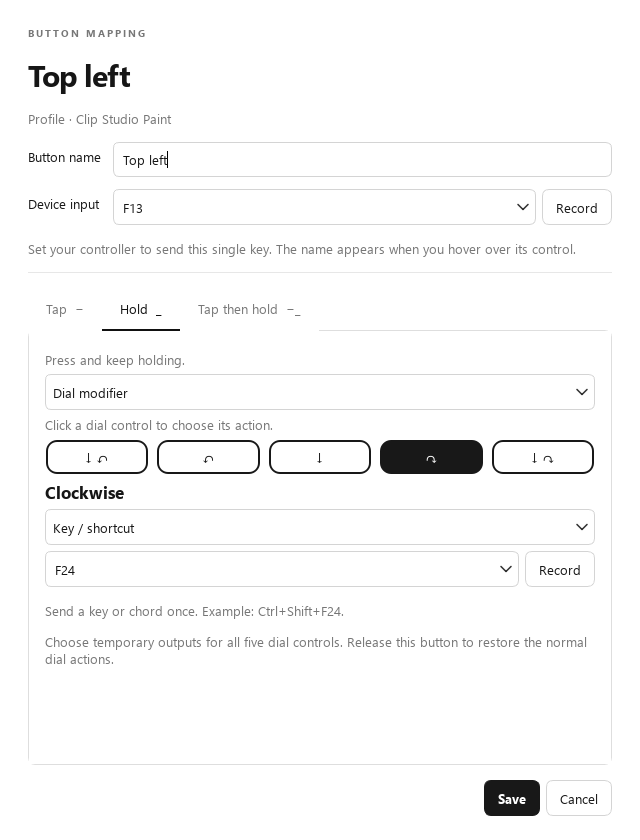
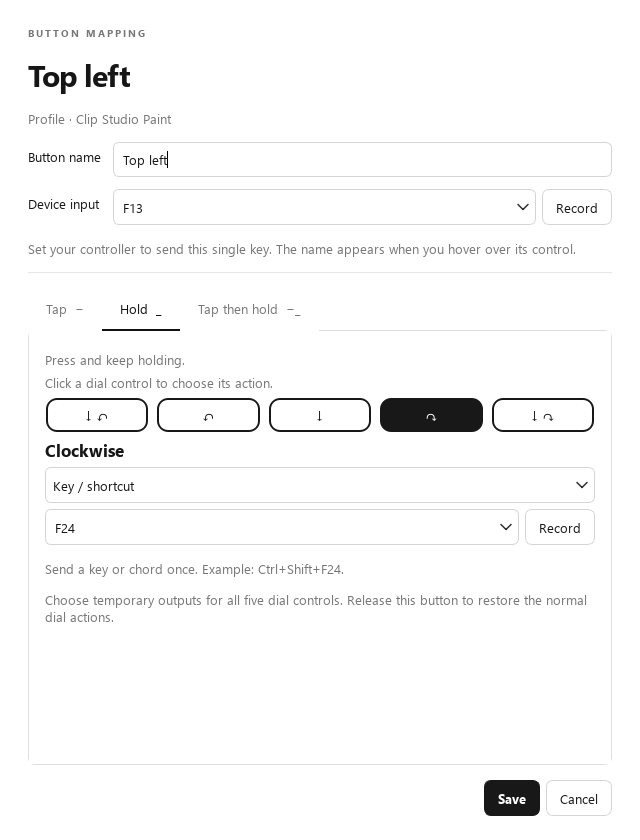
Show held dial options beneath normal actions and add Claude handover

Changed region(s): [[0.0625, 0.4333, 0.9375, 0.8048], [0.8438, 0.619, 0.9062, 0.681], [0.7812, 0.619, 0.8125, 0.681]]

diff --git a/altclipctrl/ui.py b/altclipctrl/ui.py
@@ -162,8 +162,13 @@ class KeyEditor(QWidget):
 
 
 class ActionEditor(QWidget):
-    def __init__(self, output, profiles, allow_hold, default_dial=None, active_profile=None, choices=None):
+    def __init__(self, output, profiles, allow_hold, default_dial=None, active_profile=None, choices=None, separate_dial=False):
         super().__init__()
+        self.separate_dial = separate_dial
+        if separate_dial and output["kind"] != "hold_dial":
+            output = {"kind": "hold_dial", "value": {
+                "without_dial": copy.deepcopy(output) if output["kind"] not in DIAL_MODES else {"kind": "none", "value": ""},
+                "with_dial": copy.deepcopy(output) if output["kind"] in DIAL_MODES else {"kind": "none", "value": ""}}}
         self.profiles = profiles
         self.cycle_profile = active_profile or profiles[0]
         self.initial_output = copy.deepcopy(output)
@@ -210,6 +215,8 @@ class ActionEditor(QWidget):
         self.kind.setCurrentIndex(max(0, self.kind.findData(output["kind"])))
         self.kind.currentIndexChanged.connect(self.refresh)
         self.refresh()
+        if separate_dial:
+            self.kind.hide()
         if choices is not None:
             self.hint.hide()
 
@@ -224,8 +231,8 @@ class ActionEditor(QWidget):
             value = self.initial_output["value"] if self.initial_output["kind"] == "hold_dial" else {
                 "without_dial": {"kind": "hold_key", "value": "Space"}, "with_dial": {"kind": "dial_scroll", "value": {"reverse": False}}}
             self.split = {}
-            for part, title, choices in (("without_dial", "Without turning", ("none", "hold_key")),
-                                         ("with_dial", "When turning", ("none", "dial_scroll", "dial_cycle", "dial_modifier"))):
+            for part, title, choices in (("without_dial", "Without turning", ("none", "hold_key", "profile") if self.separate_dial else ("none", "hold_key")),
+                                         ("with_dial", "With dial", ("none", "dial_scroll", "dial_cycle", "dial_modifier"))):
                 self.split_layout.addWidget(label(title, "section"))
                 editor = ActionEditor(value[part], self.profiles, True, self.default_dial, self.cycle_profile, choices)
                 self.split[part] = editor
@@ -247,7 +254,15 @@ class ActionEditor(QWidget):
     def read(self):
         kind = self.kind.currentData()
         if kind == "hold_dial":
-            return {"kind": kind, "value": {part: editor.read() for part, editor in self.split.items()}}
+            value = {part: editor.read() for part, editor in self.split.items()}
+            if self.separate_dial:
+                if value["with_dial"]["kind"] == "none":
+                    return value["without_dial"]
+                if value["without_dial"]["kind"] == "none":
+                    return value["with_dial"]
+                if value["without_dial"]["kind"] == "profile":
+                    raise ValueError("Switch profile ends this hold. Choose No action under With dial, or choose Hold a key above.")
+            return {"kind": kind, "value": value}
         if kind in ("cycle_next", "cycle_previous", "dial_cycle"):
             value = {"cycle_id": self.cycle.currentData()}
             if kind == "dial_cycle":
@@ -360,7 +375,8 @@ class BindingDialog(QDialog):
                 help_text = {"tap": "Press and release once.", "hold": "Press and keep holding.",
                              "tap_hold": "Tap, release, then press and keep holding."}[gesture]
                 page_layout.addWidget(label(help_text, "muted"))
-                self.editors[gesture] = ActionEditor(binding[gesture], settings["profiles"], gesture != "tap", dial_map(self.profile), self.profile)
+                self.editors[gesture] = ActionEditor(binding[gesture], settings["profiles"], gesture != "tap", dial_map(self.profile), self.profile,
+                                                     separate_dial=gesture != "tap")
                 page_layout.addWidget(self.editors[gesture])
                 page_layout.addStretch()
                 scroll = QScrollArea()
@@ -378,9 +394,9 @@ class BindingDialog(QDialog):
     def commit(self):
         binding = self.profile["bindings"][self.slot]
         binding["name"], binding["input"] = self.name.text().strip(), self.input.text()
-        for gesture, editor in self.editors.items():
-            binding[gesture] = editor.read()
         try:
+            for gesture, editor in self.editors.items():
+                binding[gesture] = editor.read()
             validate(self.result_settings)
             self.accept()
         except (ValueError, KeyError) as exc:

diff --git a/tests/test_hold_dial.py b/tests/test_hold_dial.py
@@ -189,6 +189,29 @@ class HoldAndDialUITests(unittest.TestCase):
     def setUpClass(cls):
         cls.app = QApplication.instance() or QApplication([])
 
+    def test_both_sections_are_visible_without_selecting_a_combination(self):
+        for output in (action(), action("hold_key", "Space"), action("dial_scroll", {"reverse": False}), combined()):
+            settings = defaults()
+            for gesture in ("hold", "tap_hold"):
+                settings["profiles"][0]["bindings"]["right_lower"][gesture] = copy.deepcopy(output)
+            dialog = BindingDialog(None, settings, "right_lower")
+            try:
+                dialog.show()
+                self.app.processEvents()
+                for gesture in ("hold", "tap_hold"):
+                    editor = dialog.editors[gesture]
+                    self.assertTrue(editor.kind.isHidden())
+                    self.assertFalse(editor.split_container.isHidden())
+                    self.assertGreater(editor.split["with_dial"].y(), editor.split["without_dial"].y())
+                    self.assertEqual(editor.read(), output)
+                if output["kind"] == "none":
+                    from PySide6.QtWidgets import QTabWidget
+                    dialog.findChild(QTabWidget).setCurrentIndex(1)
+                    self.app.processEvents()
+                    dialog.grab().save("docs/altclipctrl-hold-visible.png")
+            finally:
+                dialog.close()
+
     def test_inline_five_controls_keep_separate_actions_and_cancel_isolated(self):
         settings = defaults()
         original = copy.deepcopy(settings)
@@ -217,9 +240,12 @@ class HoldAndDialUITests(unittest.TestCase):
             for gesture in ("hold", "tap_hold"):
                 editor = dialog.editors[gesture]
                 editor.kind.setCurrentIndex(editor.kind.findData("hold_dial"))
-                self.assertEqual(editor.read(), combined())
+                self.assertTrue(editor.kind.isHidden())
+                self.assertIsNotNone(editor.split)
+                editor.split["without_dial"].kind.setCurrentIndex(editor.split["without_dial"].kind.findData("hold_key"))
+                editor.split["with_dial"].kind.setCurrentIndex(editor.split["with_dial"].kind.findData("dial_scroll"))
                 editor.split["without_dial"].key.combo.setCurrentText("Shift" if gesture == "tap_hold" else "Space")
-                self.assertEqual(editor.split["without_dial"].kind.count(), 2)
+                self.assertEqual(editor.split["without_dial"].kind.count(), 3)
                 self.assertEqual(editor.split["with_dial"].kind.count(), 4)
             dialog.commit()
             self.assertEqual(dialog.result(), QDialog.DialogCode.Accepted)

diff --git a/tests/ui_smoke.py b/tests/ui_smoke.py
@@ -42,6 +42,10 @@ def main():
             assert dialog.input.text().startswith("F")
             expected = 1 if slot in {"ccw", "cw", "pressed_ccw", "pressed_cw"} else 3
             assert len(dialog.editors) == expected
+            if slot == "right_lower":
+                dialog.findChild(QTabWidget).setCurrentIndex(1)
+                app.processEvents()
+                dialog.grab().save(str(out / "altclipctrl-hold-visible.png"))
             for gesture, editor in dialog.editors.items():
                 assert editor.kind.findData("profile") >= 0
                 assert (editor.kind.findData("hold_key") >= 0) == (gesture != "tap")

diff --git a/altclipctrl/__init__.py b/altclipctrl/__init__.py
@@ -1,4 +1,4 @@
 """Alt Clip Ctrl: dedicated device signals, independent from keyboard modifiers."""
 
-__version__ = "2.2.0"
+__version__ = "2.2.1"
 DISPLAY_NAME = "Alt Clip Ctrl"

diff --git a/CLAUDE.md b/CLAUDE.md
@@ -1,0 +1,54 @@
+# Alt Clip Ctrl handover
+
+Handover prepared 2026-11-01. This repository contains the current source for **Alt Clip Ctrl 2.2.1**. The app was previously named Inbetween; the legacy modifier-based Windows helper remains in `src/`.
+
+## Latest change
+
+The user could not find the combined hold and dial action. Both **Hold (_)** and **Tap then hold (−_)** now always show **Without turning** first and **With dial** directly underneath. There is no combination selector to discover. Tap remains unchanged. See `docs/altclipctrl-hold-visible.png`.
+
+`ActionEditor(separate_dial=True)` in `altclipctrl/ui.py` wraps existing assignments for editing and hides the outer kind selector. A single active section saves back to its original action format; two active sections save as `hold_dial`. Existing assignments reopen in the correct sections. Without turning supports No action, Hold a key, and Switch profile. With dial supports No action, Dial scrolling, Dial cycling, and Dial modifier. Switching profile ends a hold and cannot be combined with an active dial section; the dialog displays a validation message.
+
+The engine behavior from 2.2.0 is unchanged: holding can keep an output such as Space down; the first dial turn releases that output before activating the dial mode until button release. A dial press alone does not trigger the transition. Other holders of the same key retain their own hold.
+
+## User requirements to preserve
+
+- White controller schematic with black outlines; no drawn button names, user names on hover.
+- Five dial signals, left to right: pressed counterclockwise, counterclockwise, pressed neutral, clockwise, pressed clockwise.
+- Three most recent actions, input highlighting, no flicker during a held button.
+- Profiles, application links, profile switching, and F1–F24.
+- Multiple named cycle lists per profile, selected per action; shared shortcuts synchronize matching lists while unmatched lists keep their position.
+- Dial scrolling/cycling direction reversal and temporary dial modifier mappings while a button is held.
+- Optional scroll acceleration checkbox and adjustable factor. Preserve immediate first-step delivery and avoid introducing a slow ramp or queued inertia. Earlier perceived scrolling delay was investigated; the user later thought it was their perception, so no unresolved diagnosis is asserted here.
+- Windows, Linux, and macOS support. Linux/macOS still need real hardware validation.
+
+## Structure and settings
+
+- `altclipctrl/ui.py`: PySide6 interface, action editor, binding dialog, inline five-button dial modifier editor.
+- `altclipctrl/engine.py`, `model.py`: gesture processing, actions, profiles, named cycle lists, validation.
+- `altclipctrl/storage.py`: persistence and migration. Preserve existing settings and original legacy files.
+- `inbetween/`: compatibility entry point; `src/`: previous Windows helper.
+- JSON schema version 2 stores profile `cycle_lists`; old single-list settings migrate to a Default list. Action references use cycle IDs, not list names.
+- Windows live input runs separately from the UI. Preserve output ordering and held-key reference counts. Native tests use an isolated receiver; do not send test shortcuts to the user's applications.
+
+Use `--settings PATH` for isolated runs and `--preview` for UI work without global input/output. Do not edit or overwrite the user's live settings or backup to test a change. Close older running copies before a live run; the app has single-instance guards.
+
+## Validation and builds
+
+Install `requirements-altclipctrl.txt` into a virtual environment (Python 3.10–3.13). Run:
+
+```text
+python -m unittest discover -s tests -p "test_*.py"
+python -m tests.ui_smoke
+python build-altclipctrl.py
+python package-altclipctrl.py
+```
+
+The 2.2.1 work passed **140 unit tests**, the offscreen UI smoke suite, and packaged Windows startup/render/listener shutdown smoke checks. A regression in `tests/test_hold_dial.py` verifies both held gestures show the two sections immediately and preserve existing actions. Tests may regenerate documentation screenshots. Hardware interaction was not revalidated on Linux or macOS.
+
+Windows packaging used PySide6 Essentials 6.8.3 and PyInstaller 6.16.0. Keep `_internal` beside the executable. Output ZIPs are generated in `outputs/`, which is ignored by Git; a source push does not upload a GitHub Release.
+
+## Local workspace at handover
+
+The earlier chat removed the old checkout at the user's request. This push uses the fresh `Git-Publish/` checkout under `C:/Users/Gebruiker/Desktop/CSP-Tool-Cycler-Windows`. The previously tested source and build environment remain in sibling `Development/`. The sibling `AltClipCtrl-2.2.1/` holds the built app; root Windows/source ZIPs contain the 2.2.1 build. `AltClipCtrl-App/` is the older copy; `Settings-backup/` contains the user's preserved settings.
+
+Do not assume the workspace root is the Git checkout. Do not remove those directories as incidental cleanup. Automatic approval previously rejected deleting `Development/` because it contains modified source and tests; it was left intact. No new feature request is pending beyond publishing this update and providing this handover.

diff --git a/docs/AltClipCtrl.md b/docs/AltClipCtrl.md
@@ -42,12 +42,12 @@ The seven outer buttons and pressed-neutral signal support three independent ges
 - **Hold (_):** keep the button down. Its action starts after the hold threshold.
 - **Tap then hold (−_):** tap, release, and press again within the second-press window. Its action starts on the second press.
 
-**Tap (−)** offers No action, Key / shortcut, Cycle list next/previous, Scroll up/down and Switch profile. **Hold (_) and Tap then hold (−_)** offer No action, Hold a key, Dial scrolling, Dial cycling, Dial modifier, Hold + dial and Switch profile. The held menus have no directional scroll/cycle actions or Key / shortcut.
+**Tap (−)** offers No action, Key / shortcut, Cycle list next/previous, Scroll up/down and Switch profile. **Hold (_) and Tap then hold (−_)** always display two sections: **Without turning** at the top and **With dial** directly underneath. No extra combination option needs to be selected. Set either section to No action if it is unused. Existing held-key, dial-mode and combined assignments reopen in their corresponding sections. Switch profile is available without turning; it ends the hold and cannot be combined with a dial mode.
 
 - **Dial scrolling:** while the button is held, clockwise turns scroll up and counterclockwise turns scroll down. Pressed turns follow the same direction rule. Each assignment has its own **Reverse direction** checkbox. Global scroll amount and reversal in Options also apply.
 - **Dial cycling:** choose a named cycle list for this action. While held, clockwise advances and counterclockwise goes backward through that list. Each assignment has its own **Reverse direction** checkbox, independent of the scrolling assignments. Different held buttons can use different lists, and each list remembers its own position.
 - **Dial modifier:** the same five dial buttons as on the main page appear directly in the editor: pressed counterclockwise, counterclockwise, press, clockwise, pressed clockwise. Click a button to edit its action below the row. Each button keeps its own draft when switching between them; the mapping window's Save applies all five. The physical input keys stay the same. A dial press runs its temporary action once on release; turning while pressed cancels that press action. The chosen held button's release restores the normal dial outputs. No Alt/Ctrl/Shift input interpretation is involved.
-- **Hold + dial:** set **Without turning** to No action or Hold a key, and **When turning** to No action, Dial scrolling, Dial cycling or Dial modifier. For example, choose Hold a key → `Space` without turning, and Dial scrolling when turning. Holding alone keeps Space down for panning. The first turn releases that output before sending any dial output, and the chosen dial mode stays active until you release the button. Stopping the dial does not return to panning during the same hold. A turn before the hold threshold starts the dial mode immediately without briefly pressing Space. A dial press alone does not switch modes. This option works independently for Hold and Tap then hold. Other buttons that are also holding the same output key keep their own hold until released.
+- **Hold + dial:** set **Without turning** to No action or Hold a key, and **With dial** to No action, Dial scrolling, Dial cycling or Dial modifier. For example, choose Hold a key → `Space` without turning, and Dial scrolling when turning. Holding alone keeps Space down for panning. The first turn releases that output before sending any dial output, and the chosen dial mode stays active until you release the button. Stopping the dial does not return to panning during the same hold. A turn before the hold threshold starts the dial mode immediately without briefly pressing Space. A dial press alone does not switch modes. This option works independently for Hold and Tap then hold. Other buttons that are also holding the same output key keep their own hold until released.
 
 These are temporary modes, not one-off actions fired when holding starts. A first dial movement can activate a held dial mode before the hold timer expires; Tap then hold activates its mode on the second press. If two mode buttons overlap, the most recently activated mode takes priority. Releasing it resumes the other still-held mode; releasing the final mode button restores the base mappings. Focus changes, profile switches, pause, settings changes and exit also clear temporary modes.
 

diff --git a/README.md b/README.md
@@ -1,6 +1,6 @@
 # Alt Clip Ctrl
 
-Alt Clip Ctrl 2.2 maps a programmable dial and its buttons to keyboard shortcuts, scrolling, tool cycles and application profiles. The new app was previously called Inbetween.
+Alt Clip Ctrl 2.2.1 maps a programmable dial and its buttons to keyboard shortcuts, scrolling, tool cycles and application profiles. The new app was previously called Inbetween.
 
 ![Alt Clip Ctrl controller map](docs/altclipctrl-main.png)
 
@@ -14,7 +14,7 @@ Give each controller signal its own key in the controller's configuration softwa
 - Tap (−), Hold (_) and Tap then hold (−_) actions.
 - Held dial scrolling, dial cycling and temporary dial modifiers, with direction reversal.
 - Inline dial modifier editing with the main page's five dial controls.
-- Hold + dial: hold a key for panning, then release that output and switch to scrolling or another dial mode on the first turn.
+- Hold and Tap then hold always show Without turning first and With dial underneath. Hold a key for panning, then release that output and switch to scrolling or another dial mode on the first turn.
 - Multiple named cycle lists per profile, selectable separately for each button or dial action.
 - Shared shortcuts update matching lists in the current profile; other lists keep their last confirmed position.
 - A profile dropdown, program-linked profiles and button actions that switch profiles.
